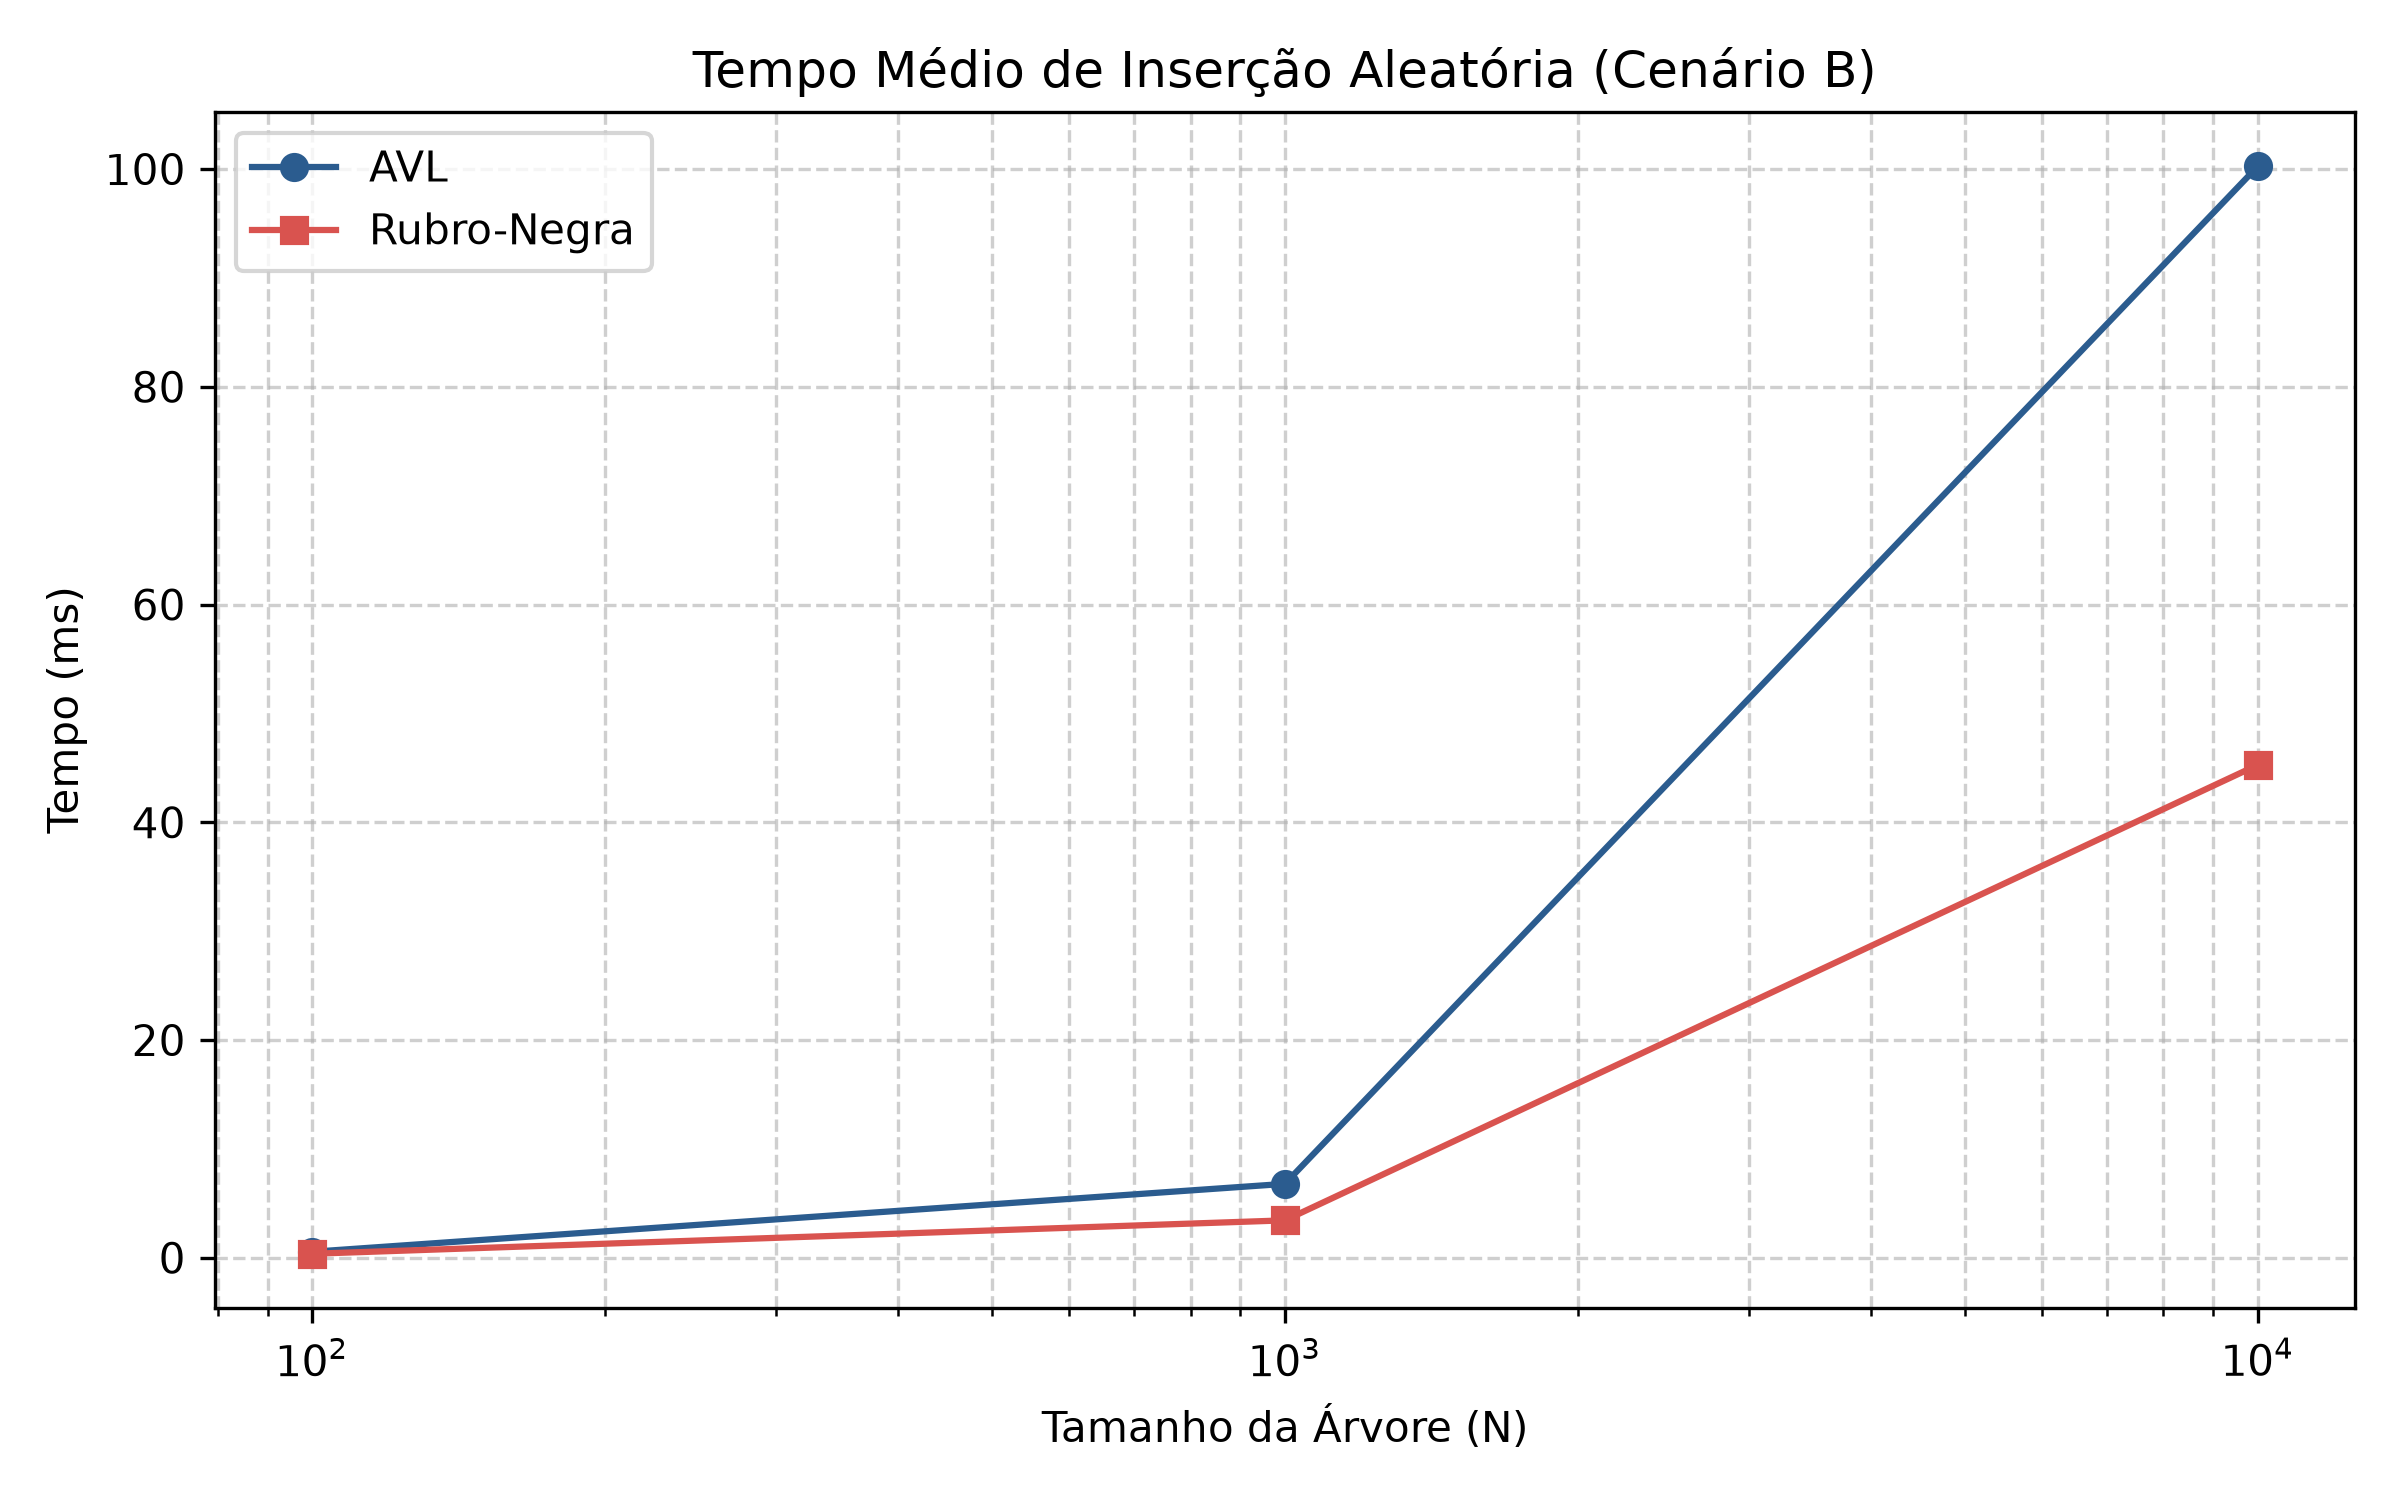
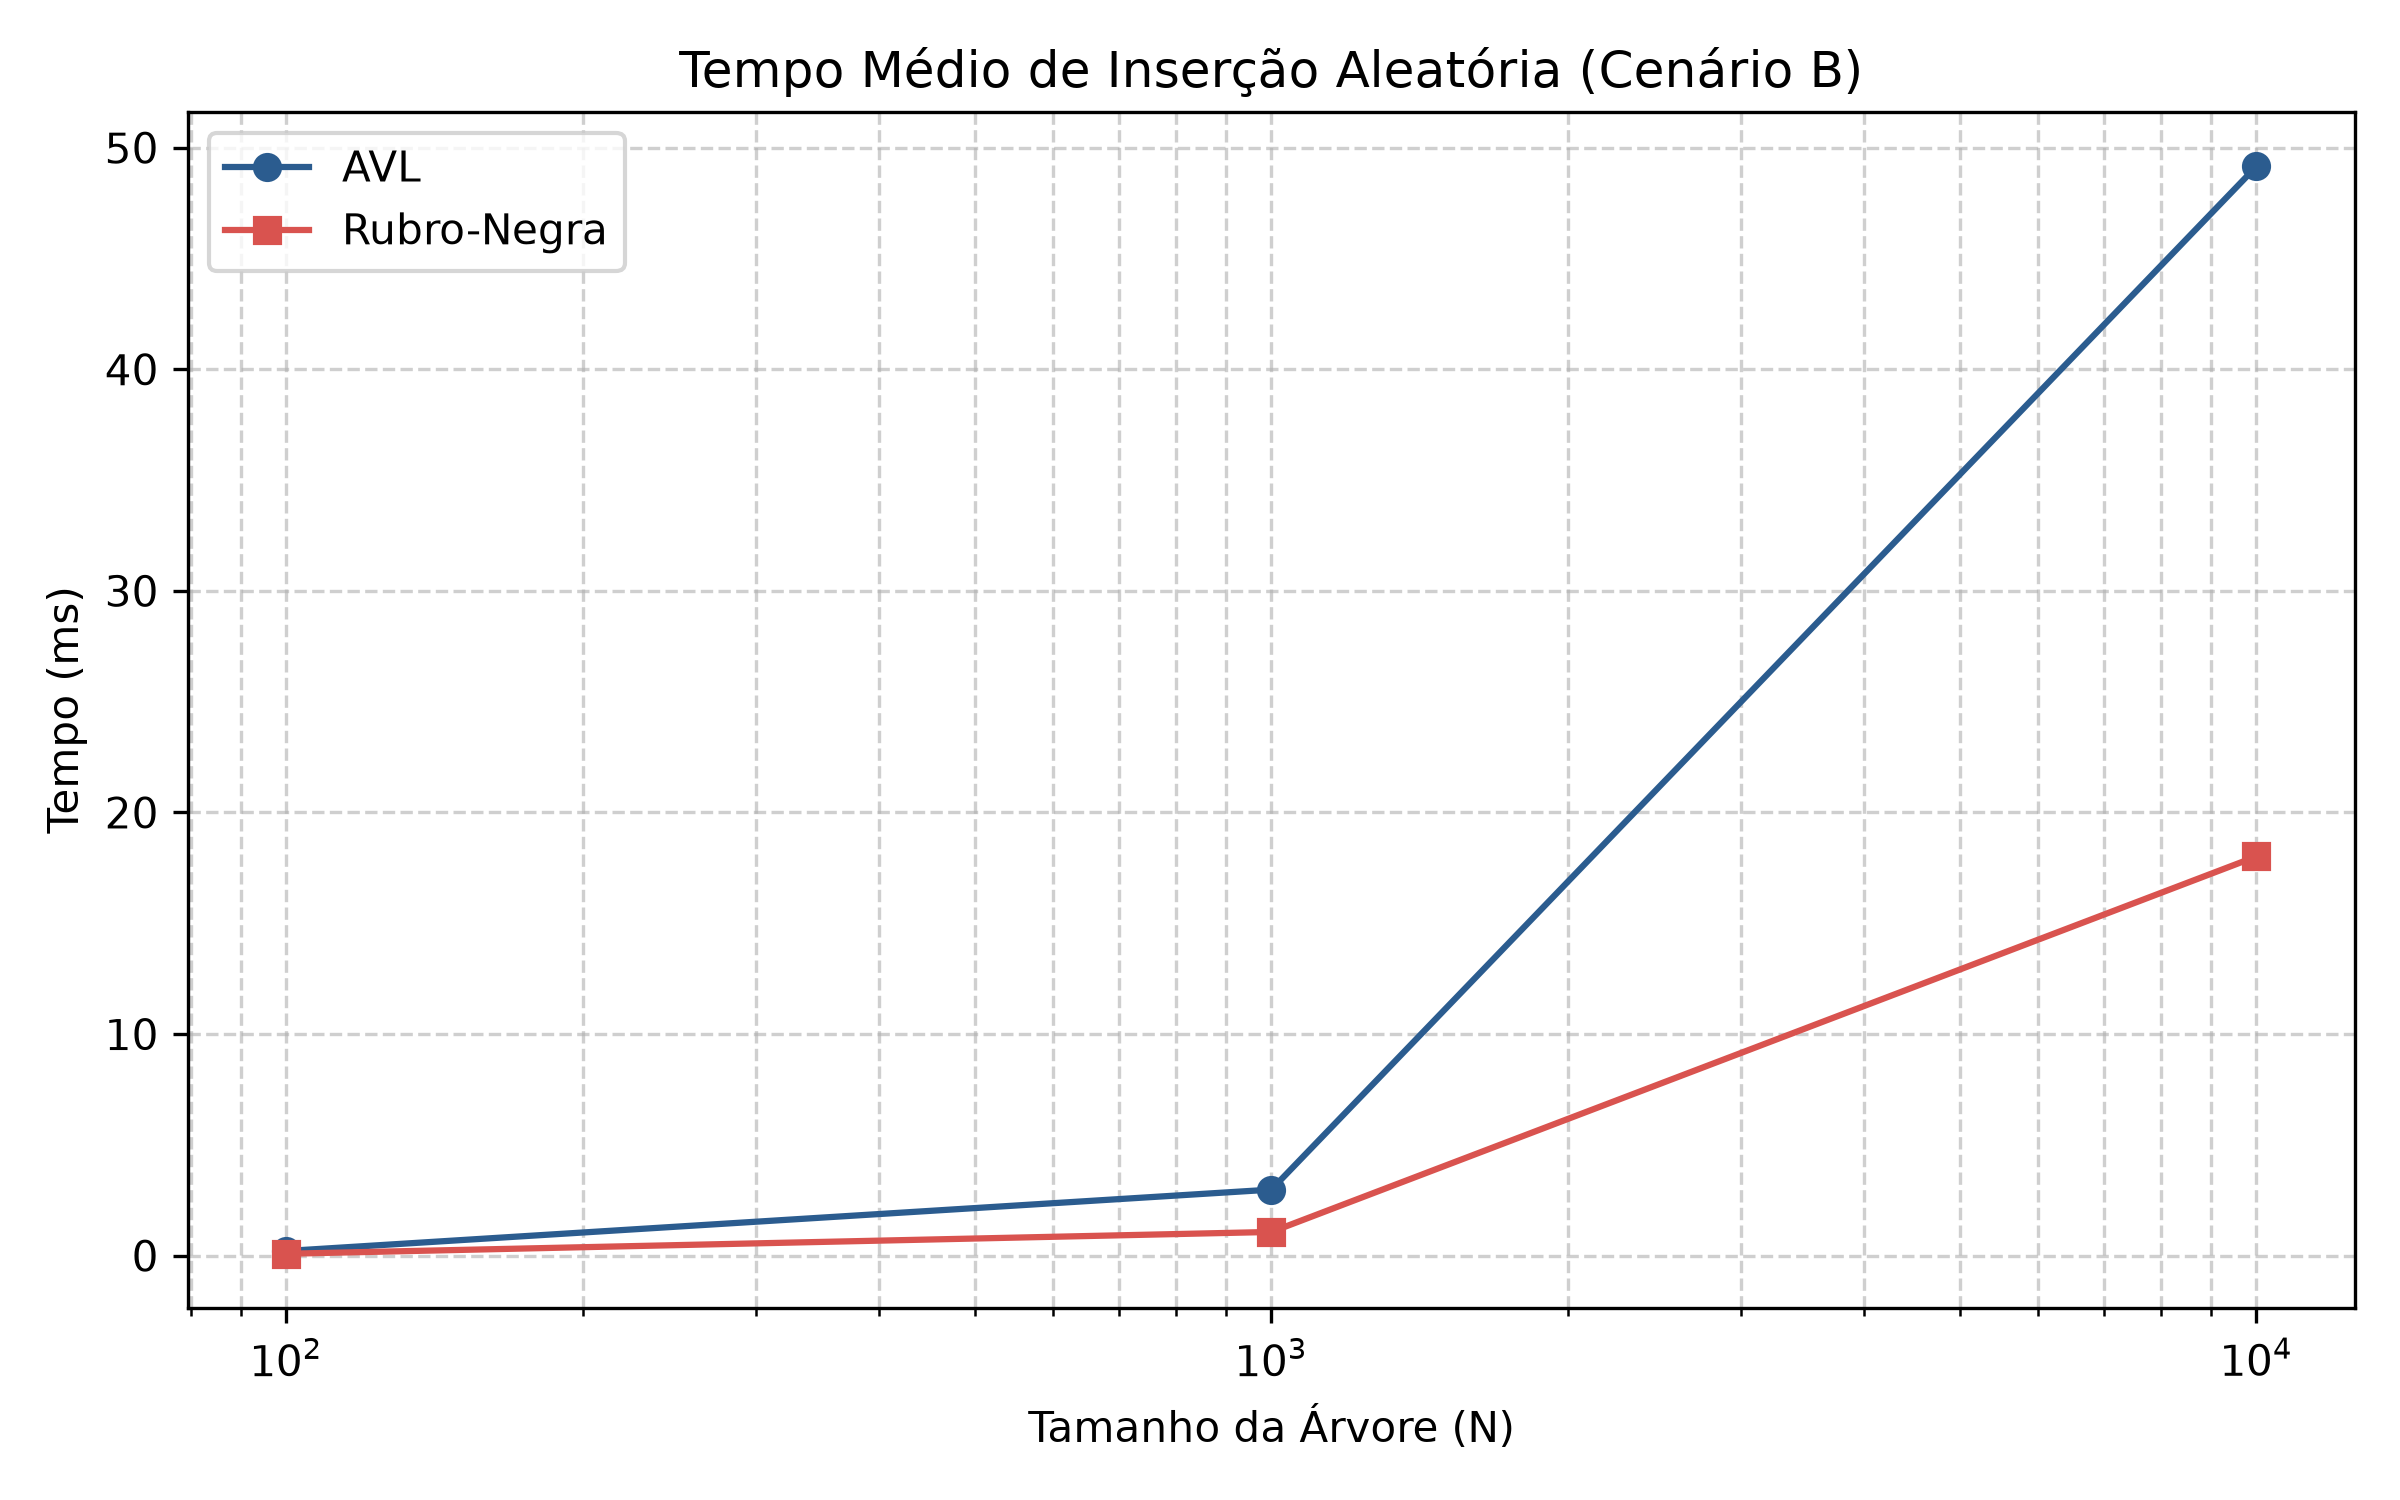
feat(final): integracao concluida, testes validados e resultados prontos

diff --git a/README.md b/README.md
@@ -1,1 +1,38 @@
 # AED2_sistema_bancario
+
+# Sistema Bancário — AVL × Rubro-Negra (AED II)
+
+Trabalho prático da disciplina de **Algoritmos e Estruturas de Dados II (AED II)**: um sistema bancário em memória que armazena e indexa contas em duas árvores de busca auto-balanceadas em simultâneo — a **Árvore AVL** e a **Árvore Rubro-Negra** —, permitindo comparar o desempenho, a estrutura e a complexidade de ambas em experimentos reprodutíveis.
+
+## Integrantes
+
+| Identificador | Nome | Responsabilidade principal |
+|---|---|---|
+| **I1** | Luis Gustavo | Árvore AVL (`avl.py`) |
+| **I2** | Julio Augusto | Árvore Rubro-Negra (`rubro_negra.py`) |
+| **I3** | Adriano Monteiro | Modelo, aplicação, gerador, menu, experimentos, gráficos, README e consolidação do relatório |
+
+## Minimundo
+
+O sistema representa o cadastro e a gestão de contas de um banco. A entidade central é a **`Conta`** (`modelos.py`), imutável e validada no momento da criação:
+
+| Campo | Regra |
+|---|---|
+| `numero` | Inteiro de 1 a 9 dígitos, maior que zero; atua como a **chave** de ordenação das árvores. |
+| `titular` | Texto de 2 a 100 caracteres (espaços extras são removidos automaticamente). |
+| `agencia` | 1 a 4 dígitos, preenchida com zeros à esquerda (ex.: `7` → `0007`). |
+| `tipo` | `CORRENTE` ou `POUPANCA` (aceita minúsculas e acentos). |
+| `saldo` | `Decimal` não negativo, com até 2 casas decimais (aceita vírgula ou ponto). |
+
+Cada operação de cadastro e remoção é executada **simultaneamente nas duas árvores**. Se os resultados estruturais divergirem, a aplicação lança a exceção `InconsistenciaEntreArvores`. As consultas (busca, mínimo, máximo, caminhamentos, altura e exibição) utilizam a árvore **ativa**, selecionada através do menu.
+
+## Pré-requisitos e Instalação
+
+- **Python 3.12 ou superior** (o código utiliza recursos a partir do Python 3.10; os experimentos oficiais foram validados na versão 3.13.3).
+- **Dependências externas:** `matplotlib` (utilizada para o processamento dos experimentos e geração dos gráficos).
+
+```bash
+python -m venv .venv
+# Linux/macOS:  source .venv/bin/activate
+# Windows:      .venv\Scripts\activate
+pip install -r requirements.txt
